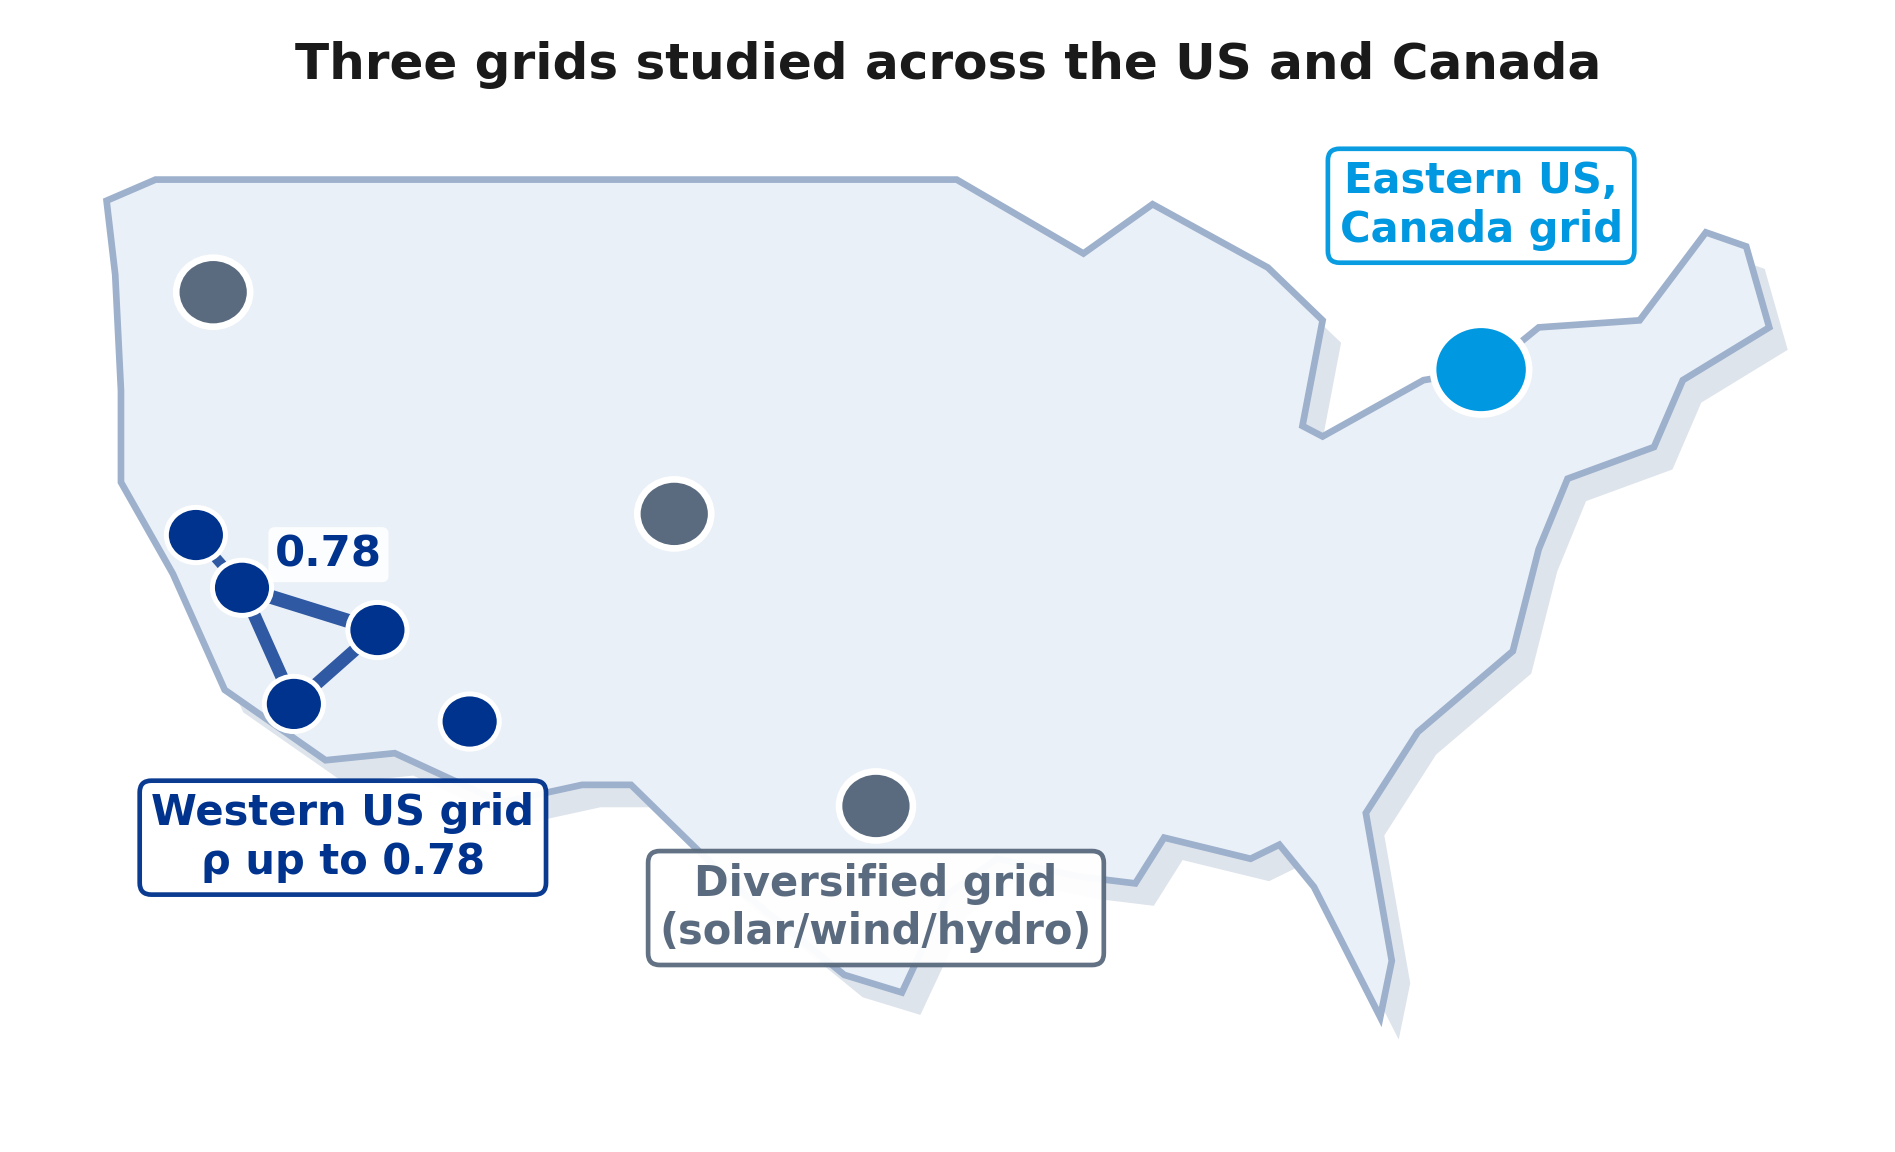
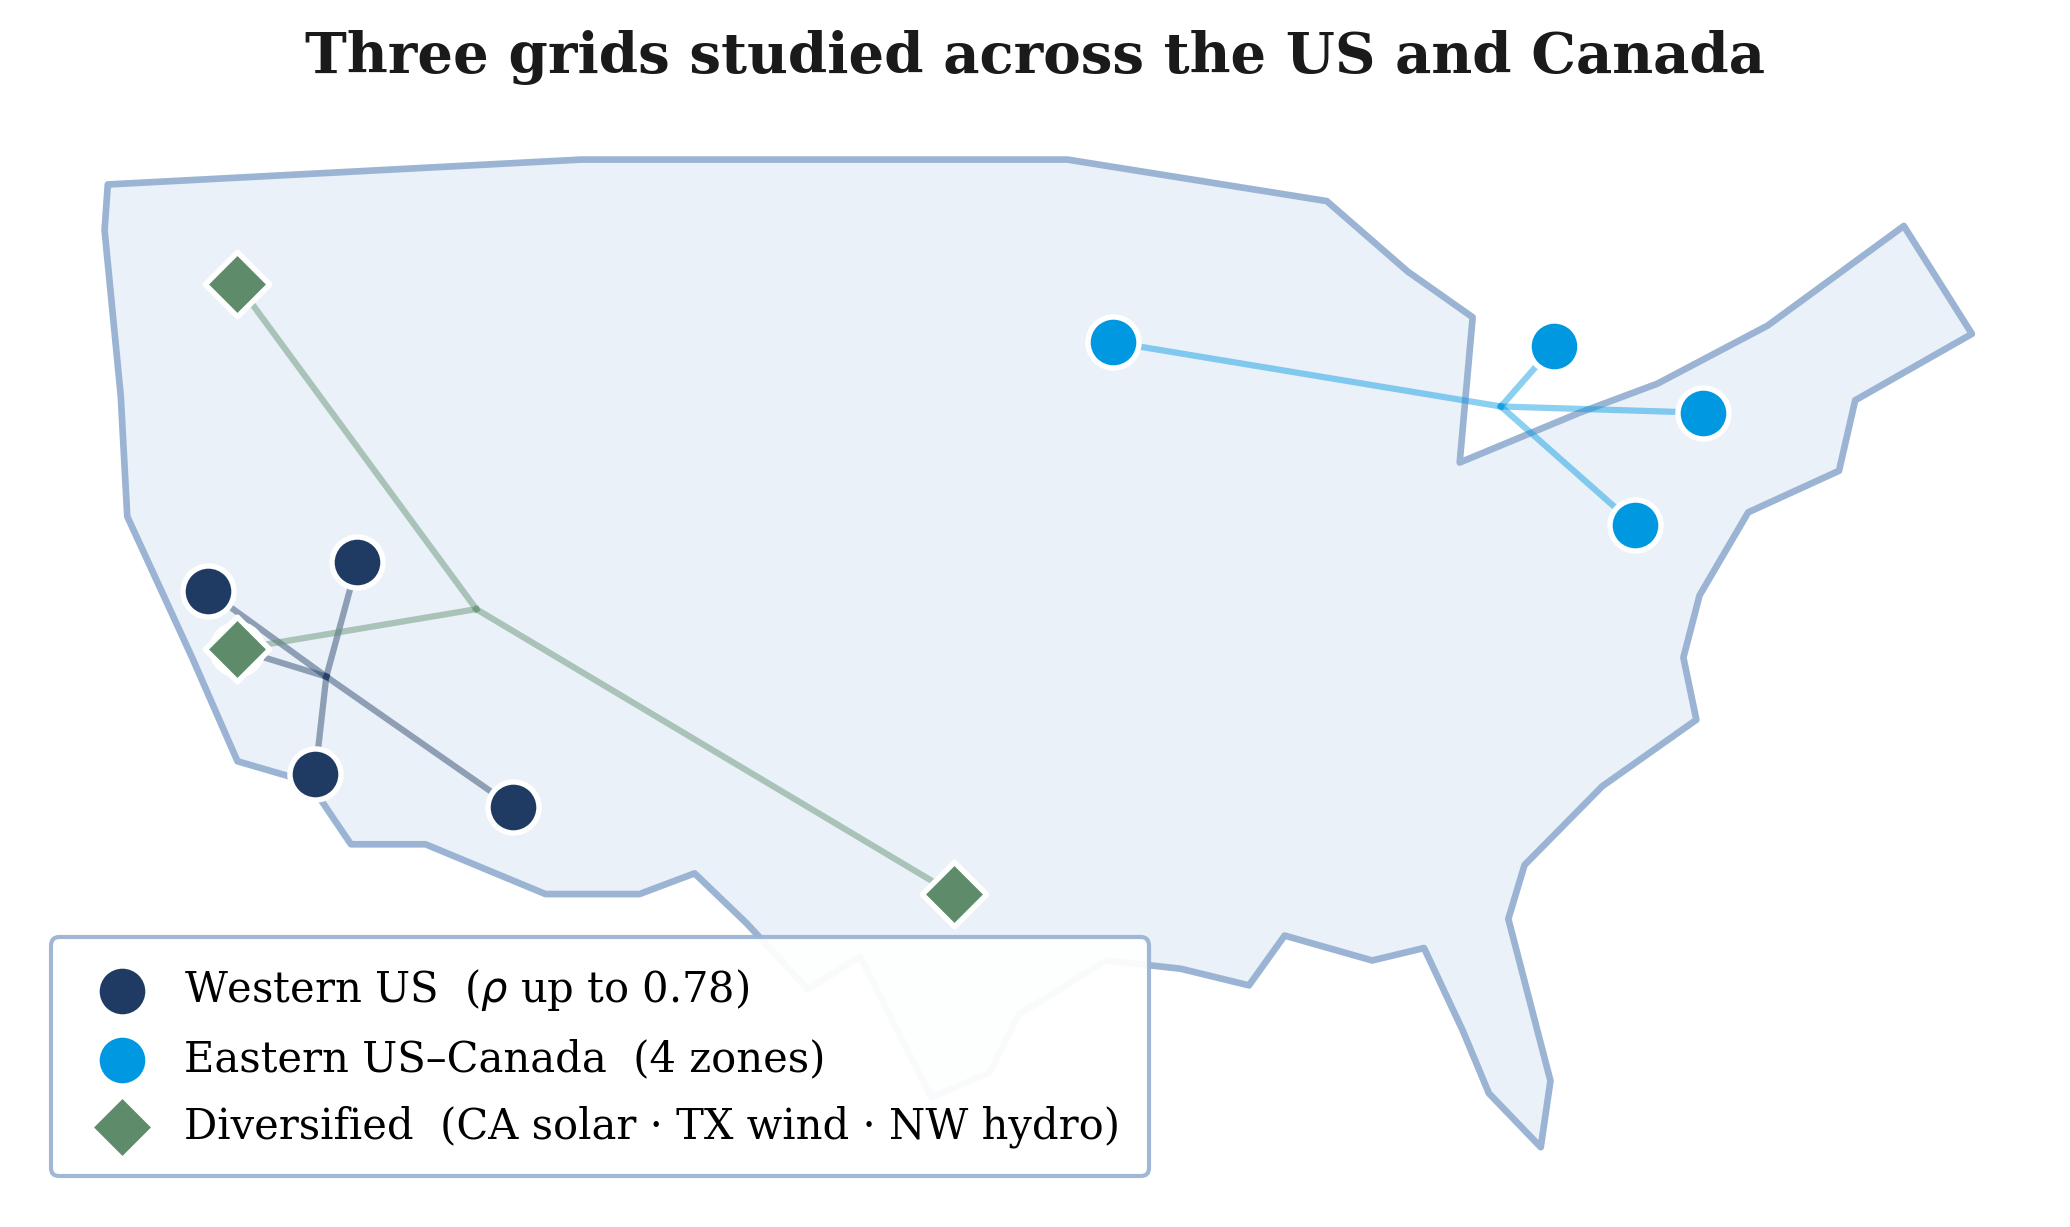
Poster: rebuild the US map so it is not sparse (reproducible)
The old map was a static asset where the Eastern grid read as a single dot and the
Diversified zones were scattered, leaving the map looking empty. Replace it with a
reproducible matplotlib map (no geo dependencies): a stylized US/Canada outline with
the real zone locations, the Eastern US-Canada grid now showing all four zones, the
Diversified grid spread across CA/TX/NW, within-grid edges, and a legend filling the
previously empty corner. New scripts/plot_us_grids_map.py; poster rebuilt.

diff --git a/scripts/plot_us_grids_map.py b/scripts/plot_us_grids_map.py
@@ -1,0 +1,80 @@
+"""Poster figure: the three study grids on a stylized US/Canada map.
+
+Hand-built (no geo dependencies): a simplified continental-US outline plus the real
+zone locations, so the map is not sparse. The Western grid is a tight Southwest
+cluster, the Eastern US-Canada grid shows all four zones across the Great Lakes /
+Northeast (it previously read as a single dot), and the Diversified grid is three
+deliberately spread zones (California solar, Texas wind, Pacific-Northwest hydro).
+
+Run:  python -m scripts.plot_us_grids_map
+Writes: poster/figs/us_regions_map.png
+"""
+from __future__ import annotations
+
+from pathlib import Path
+
+import matplotlib
+matplotlib.use("Agg")
+import matplotlib.pyplot as plt
+import numpy as np
+from matplotlib.patches import Polygon
+
+NAVY, CER, SAGE, GOLDD, INK = "#1F3B63", "#0098E0", "#5E8C6A", "#8A5C16", "#1A1A1A"
+OUT = Path(__file__).resolve().parents[1] / "poster" / "figs" / "us_regions_map.png"
+
+# simplified continental-US outline (lon, lat), clockwise from the NW corner
+US = [(-124.6, 48.4), (-110, 49), (-95, 49), (-87, 48), (-84.5, 46.3), (-82.5, 45.2),
+      (-82.9, 41.7), (-79.2, 42.9), (-76.8, 43.6), (-73.4, 45.0), (-69.2, 47.4),
+      (-67.1, 44.8), (-70.7, 43.2), (-71.2, 41.5), (-74.0, 40.5), (-75.5, 38.5),
+      (-76.0, 37.0), (-75.6, 35.5), (-78.5, 33.9), (-80.9, 32.0), (-81.4, 30.7),
+      (-80.1, 26.8), (-80.4, 25.2), (-82.0, 26.5), (-82.8, 28.0), (-84.0, 30.0),
+      (-85.6, 29.7), (-88.3, 30.3), (-89.4, 29.1), (-91.5, 29.5), (-93.8, 29.7),
+      (-96.5, 28.4), (-97.4, 27.0), (-99.2, 26.4), (-101.4, 29.8), (-103.0, 29.0),
+      (-104.9, 30.6), (-106.5, 31.8), (-108.2, 31.3), (-111.1, 31.3), (-114.8, 32.5),
+      (-117.1, 32.5), (-118.4, 34.0), (-120.6, 34.5), (-122.0, 37.0), (-124.0, 40.4),
+      (-124.2, 43.3), (-124.7, 47.3)]
+
+# zone lon/lat per grid
+WEST = {"CISO": (-120.6, 37.2), "BANC": (-121.5, 38.6), "LDWP": (-118.2, 34.2),
+        "NEVP": (-116.9, 39.3), "AZPS": (-112.1, 33.4)}
+EAST = {"CA-ON": (-80.0, 44.5), "NYISO": (-75.4, 42.9), "MISO": (-93.6, 44.6),
+        "PJM": (-77.5, 40.2)}
+DIV = {"CISO ": (-120.6, 37.2), "ERCO": (-98.5, 31.3), "BPAT": (-120.6, 46.0)}
+
+
+def main():
+    plt.rcParams.update({"font.family": "serif"})
+    fig, ax = plt.subplots(figsize=(7.0, 4.6), dpi=300)
+    ax.add_patch(Polygon(US, closed=True, facecolor="#EAF1F9", edgecolor="#9BB4D4",
+                         lw=1.6, joinstyle="round", zorder=1))
+
+    def cluster(d, color, marker="o", size=150, label=None):
+        xy = np.array(list(d.values()))
+        c = xy.mean(0)
+        for p in xy:
+            ax.plot([c[0], p[0]], [c[1], p[1]], color=color, lw=1.5, alpha=0.45, zorder=2)
+        ax.scatter(xy[:, 0], xy[:, 1], s=size, c=color, marker=marker,
+                   edgecolor="white", lw=1.3, zorder=4, label=label)
+
+    cluster(WEST, NAVY, label="Western US  ($\\rho$ up to 0.78)")
+    cluster(EAST, CER, label="Eastern US–Canada  (4 zones)")
+    cluster(DIV, SAGE, marker="D", size=120,
+            label="Diversified  (CA solar · TX wind · NW hydro)")
+
+    leg = ax.legend(loc="lower left", fontsize=10, frameon=True, framealpha=0.95,
+                    edgecolor="#9BB4D4", borderpad=0.7, labelspacing=0.6,
+                    handletextpad=0.5, bbox_to_anchor=(0.0, 0.0))
+    leg.set_zorder(6)
+
+    ax.set_xlim(-127, -65); ax.set_ylim(24, 50.5)
+    ax.set_aspect(1.28)            # gentle aspect correction for the latitude band
+    ax.axis("off")
+    ax.set_title("Three grids studied across the US and Canada",
+                 fontsize=13.5, fontweight="bold", color=INK, pad=6)
+    fig.tight_layout()
+    fig.savefig(OUT, bbox_inches="tight")
+    print(f"wrote {OUT}")
+
+
+if __name__ == "__main__":
+    main()